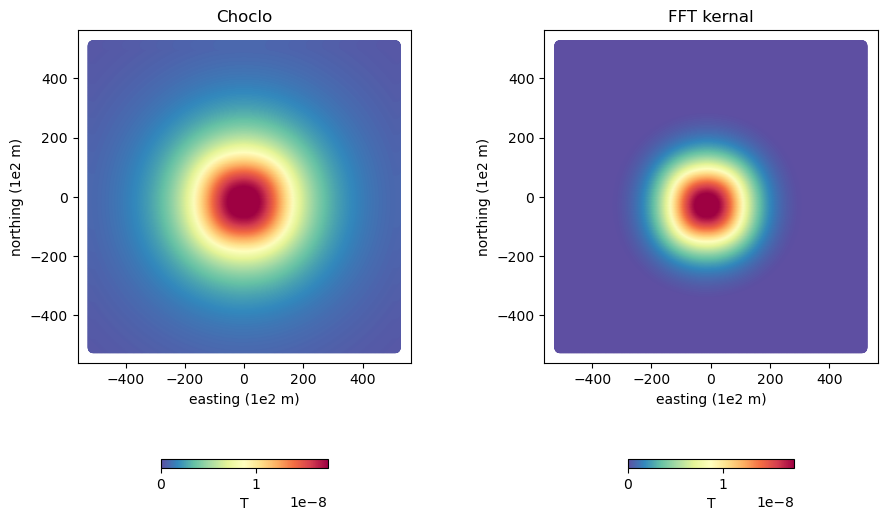
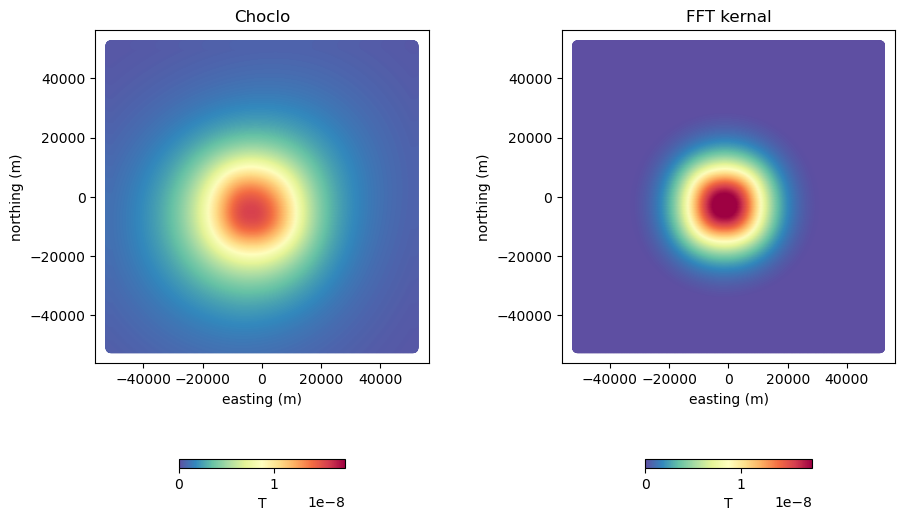
polishing document

diff --git a/courses/deepMag/report/document.md b/courses/deepMag/report/document.md
@@ -11,6 +11,10 @@ math:
 
 # DeepMagnetics
 
+## Abstract
+
+Based on the success of the graphical processing unit (GPU) in machine learning, this performance can be applied to linear problems in geophysics. In particular, the magnetics simulation can be formulated to target the GPU. With this large scaled simulations can be computed in a practical amount of time. In the following document the FFT formulated kernel with modest GPU a 1024 X 1024 receiver coverage can calculate the forward simulation in seconds. Traditional kernels would take a lot of resources and need to be highly distributed to accomplish these speeds. Starting from an already fast kernel, the fully distributed system has potential of highly parallel and fast simulated results.
+
 ## FFT's & Magnetics
 
 Based on the work of [Jianke Qiang et. al, 2019](https://doi.org/10.1016/j.jappgeo.2019.04.009) which forms the magnetic anomaly calculation as a convolution a forward modeling kernel can be written for magnetics utilizing GPU resources allowing for fast computation of large scaled surveys. This is accomplished by utilising Fast Fourier Transforms and matrix multiplications which are highly optimized for GPU operation. In order to do the Fourier calculation, a few pieces of information must be calculated in the spatial domain. First we calculate the geometric term of the magnetic response from a single layer call it $\p_k$ can be broken into its components $\pfx$, $\pfy$, $\pfz$ represented as:
@@ -212,6 +216,8 @@ def forward(self, M):
 
 Even with the single python `for` loop, the algorithm can calculate a 536,870,912 cell model at 1,048,576 stations in 4.7 seconds targeting a RTX 3070 8GB GPU. This is impressively fast compare to numerous hours it could take traditional methods ([](https://doi.org/10.1016/j.jappgeo.2019.04.009)). With a distibuted system the time can be further reduced by sending each iteration of the `for` loop to an independent node with a capable GPU(s).
 
+Furthermore, the kernel itself could be optimized further. By utilising the geometry of the receivers, there is potential to use the symetry to reduce the number of receivers required for calculation. Anther optimization but a less impactful one are to make use of pre-calculating the trignometric functions and storing them for subsequent use. Trignometric function are often costly, so reducing the amount of times to calculate common results improves the kernel's performance.
+
 ## Buried block simulation
 
 Using the above kernel, the forward data of a magnetic block in a half space is calculated with mesh parameters:
@@ -250,11 +256,19 @@ Lastly, a simulation with the centered block but this time with an inclination a
 Simulated data from the buried block model with an inducing field with declination and inclination of $45^o$.
 ```
 
-To compare the output of the kernel, the python package [Choclo](https://doi.org/10.5281/zenodo.7851747) was used to calculate the forward response of the same buried block. Here we see that the magnitudes are correct but the field tends to decay faster mobing away from the sphere. The Choclo formulation calculates the response of a prism while the FFT based kernel is the entire subsurface. They should be close though but differences do arise. however, with the small values of anomalous magnetic field the differences are likely caused by floating point errors. 
+To compare the output of the kernel, the python package [Choclo](https://doi.org/10.5281/zenodo.7851747) was used to calculate the forward response of the same buried block. Here we see that the magnitudes are correct but the field tends to decay faster mobing away from the sphere. The Choclo formulation calculates the response of a prism while the FFT based kernel is the entire subsurface. They should be close though but differences do arise. however, with the small values of anomalous magnetic field the differences are likely caused by floating point errors.
+
+```{figure} ./figures/11-choclo+fft.png
+:name: fftcompare
+:alt: FFT kernel comparison with Choclo
+:align: center
+
+FFT kernel comparison with Choclo.
+```
 
 ## Complex structure simulations
 
-To truly test the FFT based forward kernel more complex models are required. Fortunately [noddyverse](10.5194/essd-14-381-2022) as generated numerous models specifically designed for potential fields simulations ([](#noddy3d)). Moving on from simple models, large scale structural and intrusive models. With calculations done in the frequency domain objects near the edges can have harmful effects by being repeated in different quadrants ([](https://doi.org/10.1190/tle41070454.1)). However, with the shift operations during the calculation, padding can be added that removes this effect.
+To truly test the FFT based forward kernel more complex models are required. Fortunately [noddyverse](10.5194/essd-14-381-2022) has generated numerous models specifically designed for potential fields simulations ([](#noddy3d)). Moving on from simple models, large scale structural and intrusive models. With calculations done in the frequency domain objects near the edges can have harmful effects by being repeated in different quadrants ([](https://doi.org/10.1190/tle41070454.1)). However, with the shift operations during the calculation, padding can be added that removes this effect.
 
 ```{figure} ./figures/01-noddymodel3d.png
 :name: noddy3d
@@ -286,7 +300,7 @@ Example of a 3D noddyVerse model
 
 ## Solving with conjugate gradient method
 
-Now with a forward kernal complete, we will want to see if we can minimize the difference between predicted data and observed synthetic data using a conjugate gradient (CG) method <wiki:Conjugate_gradient_method>. The data difference is simply defined as the $d_{predicted} - d_{observed}$. The CG algorithm aims to minimize the objective function to find a model that fits the data. Ideally the recovered model being the one the data was generated with. The following code uses the forward kernal to solve a linear system resulting in a best fitting model thats fits the synthetic data:
+Now with a forward simulation kernal complete, we will want to see if we can minimize the difference between predicted data and observed synthetic data using the <wiki:Conjugate_gradient_method> (CG). The data difference is simply defined as the $d_{predicted} - d_{observed}$. The CG algorithm aims to minimize the objective function to find a model that fits the data. Ideally the recovered model being the one the data was generated with. The following code uses the forward kernal to solve a linear system resulting in a best fitting model thats fits the synthetic data:
 
 ```python
 class CGLS(nn.Module):
@@ -338,12 +352,12 @@ class CGLS(nn.Module):
 
 ```
 
-For simplicity the above code is run on a similar model as [](#simple3d) but with fewer parameters:
+For simplicity, the above code is run on a similar model as [](#simple3d) but with fewer parameters:
 - number of x cells = 128
 - number of y cells = 128
 - number of z cells = 64
 
-[](#cg) and [](#cgsolution) display the results of running the GPU enabled algorithm. The algorithm achieves convergence and has expected decay behaviour. The recovered model is coherent with acceptable xy lateral resolution of the target but lacks any depth imaging. This is expected. Potential fields suffer from ambiguity in depth information or the lack there of. 
+[](#cg) and [](#cgsolution) display the results of running the GPU enabled algorithm. The algorithm achieves convergence and has expected decay behaviour. The recovered model is coherent with acceptable xy lateral resolution of the target but lacks any depth imaging. This is expected. Potential fields suffer from ambiguity in depth information or the lack there of. A regularization term is typically used to promote models with structure to depth ([](https://doi.org/10.1016/j.cageo.2015.09.015)).
 
 ```{figure} ./figures/09-cgiterations.png
 :name: cg
@@ -365,4 +379,4 @@ Targeting the GPU the CG iterations take on average 0.3194 seconds for a total o
 
 ## Discussion
 
-GPU's have been highly optimized for linear math operations brought on in the wake of the success of machine learning. The same can be applied to the magnetics geophysical forward simulation. This allows modelling capabilities for large scale airborne type surveys that can contain 10's to 100's of millions of cells to fully discretize the acquisition. What would noramlly take hours to days to calculate can be done in the fraction of the time and scalable. This means adding more resources (e.g GPU's, distributed nodes, etc.) can reduce the time until the internal communications bandwidth limits the proceedure ([](https://doi.org/10.48550/arXiv.1103.3225)).
+GPU's have been highly optimized for linear math operations brought on in the wake of the successes in areas of machine learning. The same can be applied to the magnetics geophysical forward simulation. This allows modelling capabilities for large scale airborne type surveys that can contain 10's to 100's of millions of cells to fully discretize the acquisition. What would noramlly take hours to days to calculate can be done in the fraction of the time and scalable. This means adding more resources (e.g GPU's, distributed nodes, etc.) can reduce the time until the internal communications bandwidth limits the proceedure ([](https://doi.org/10.48550/arXiv.1103.3225)).
